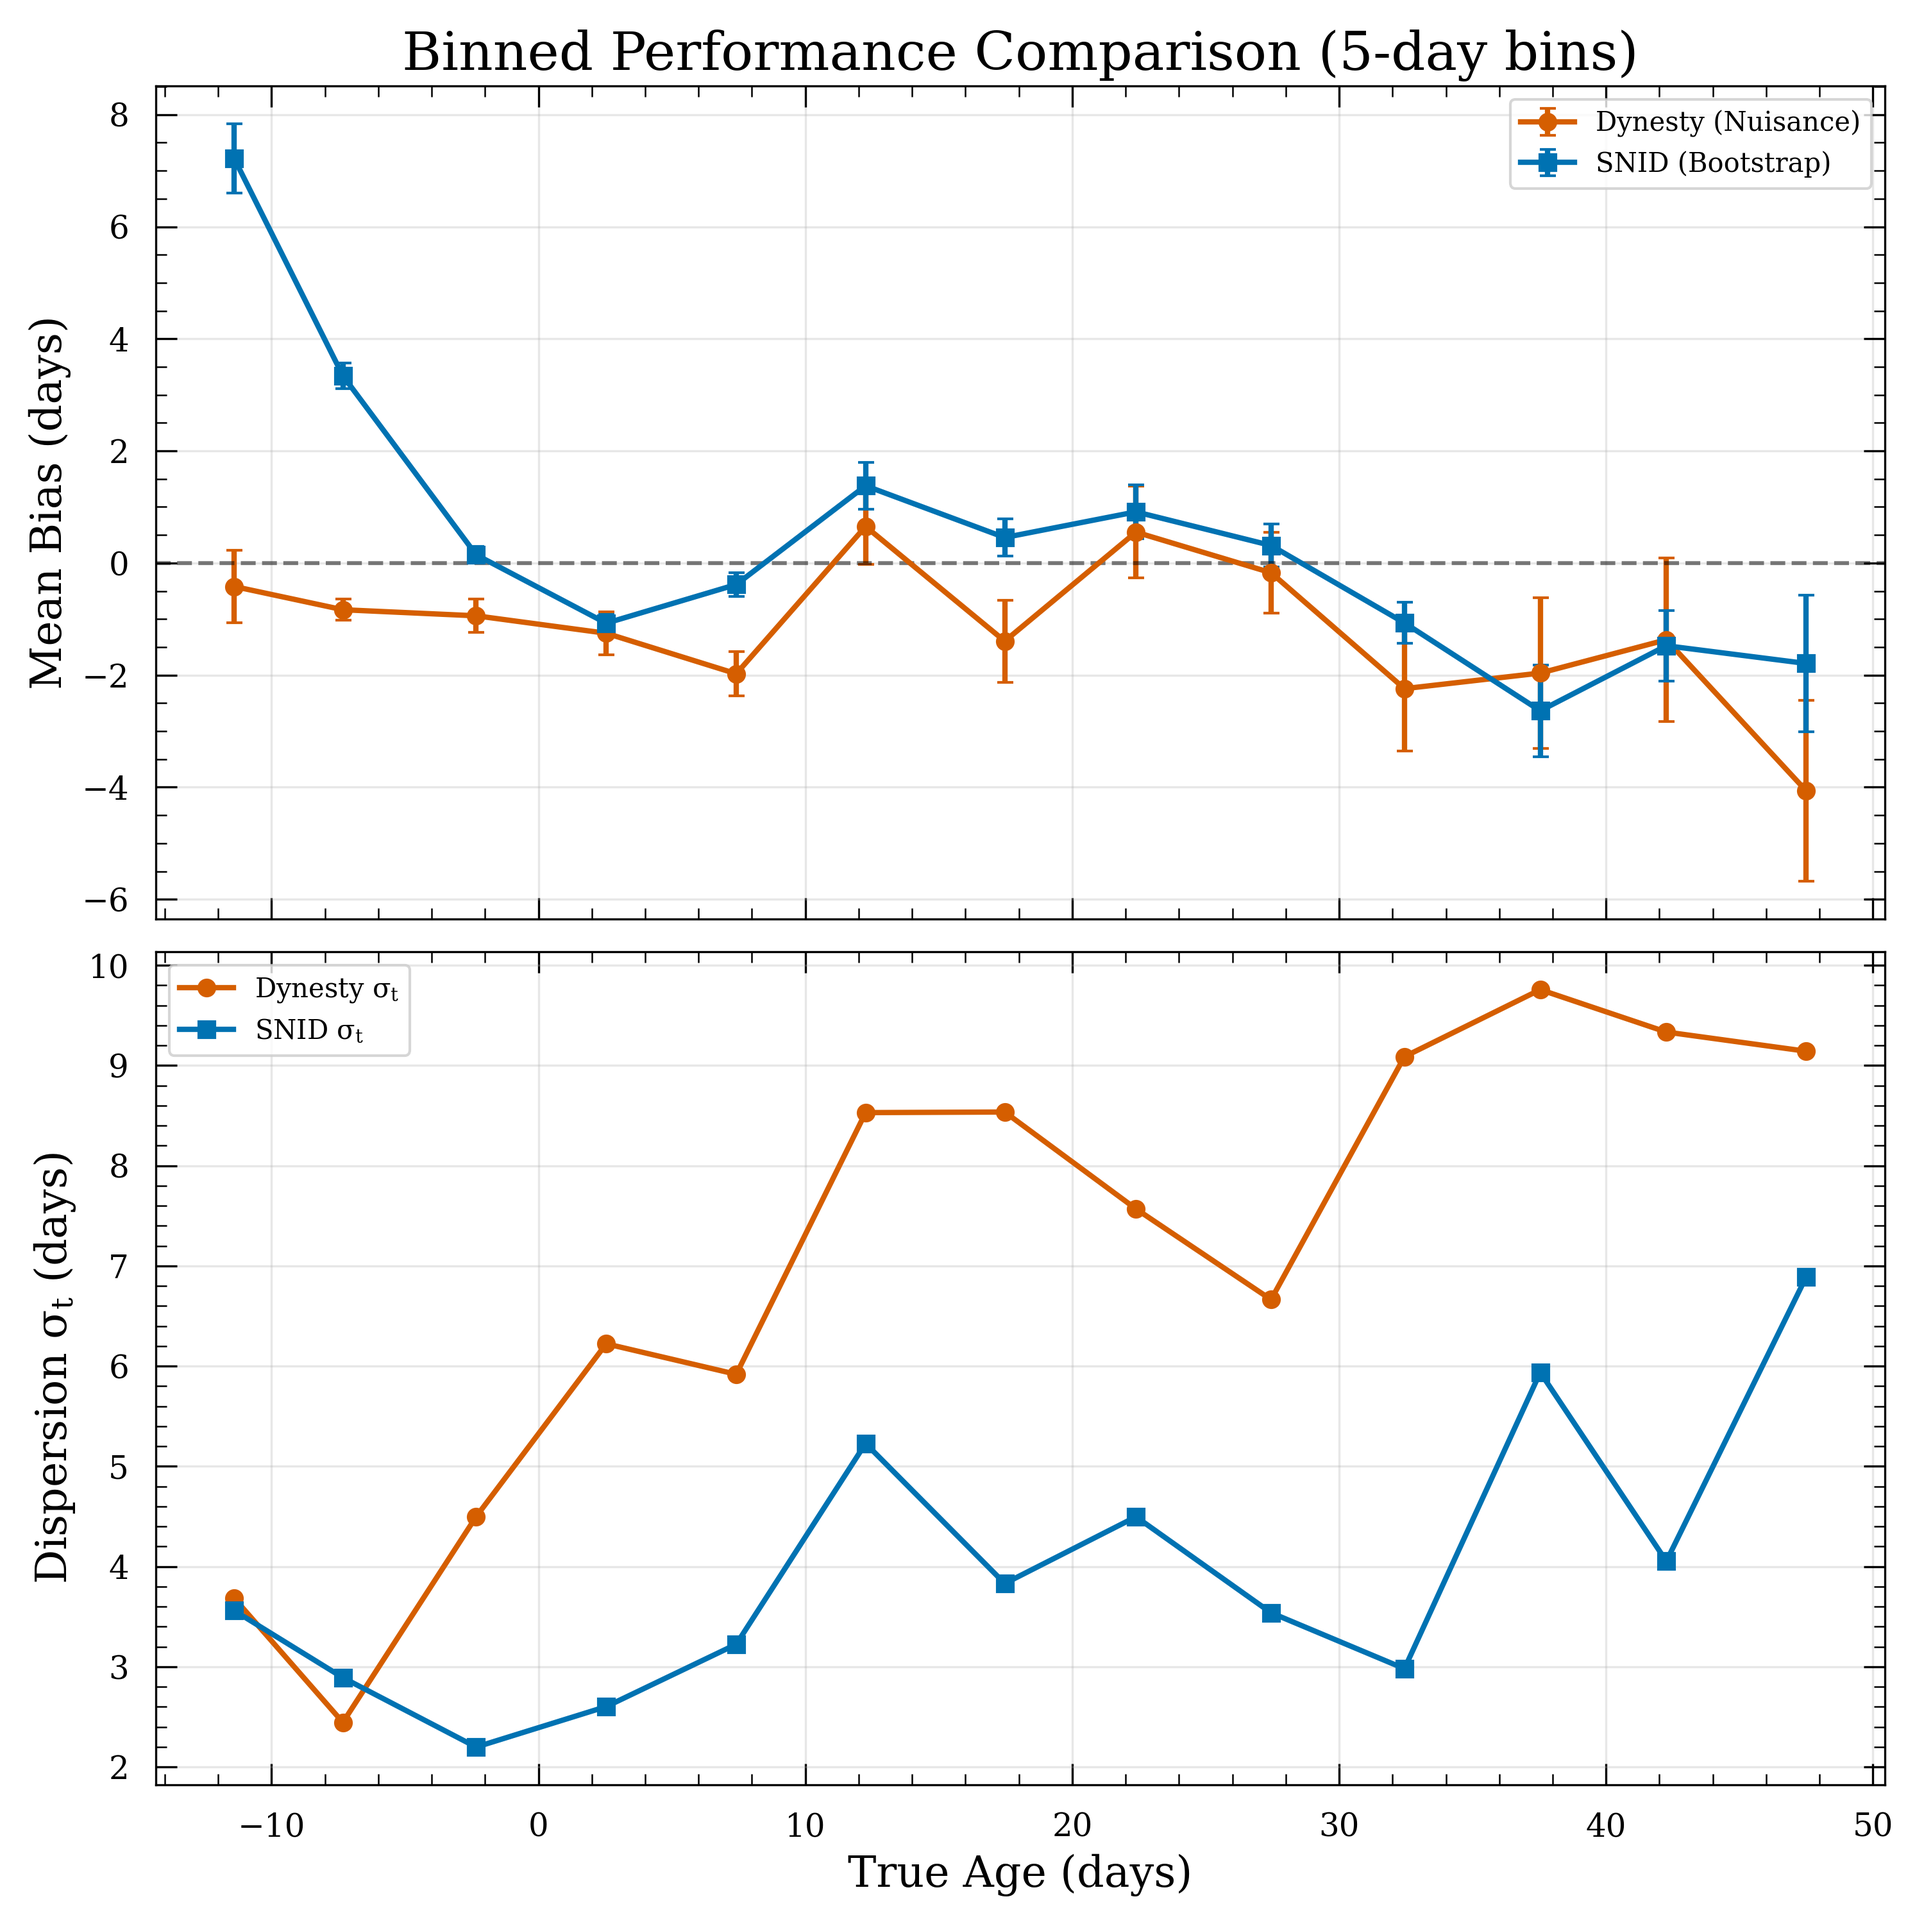
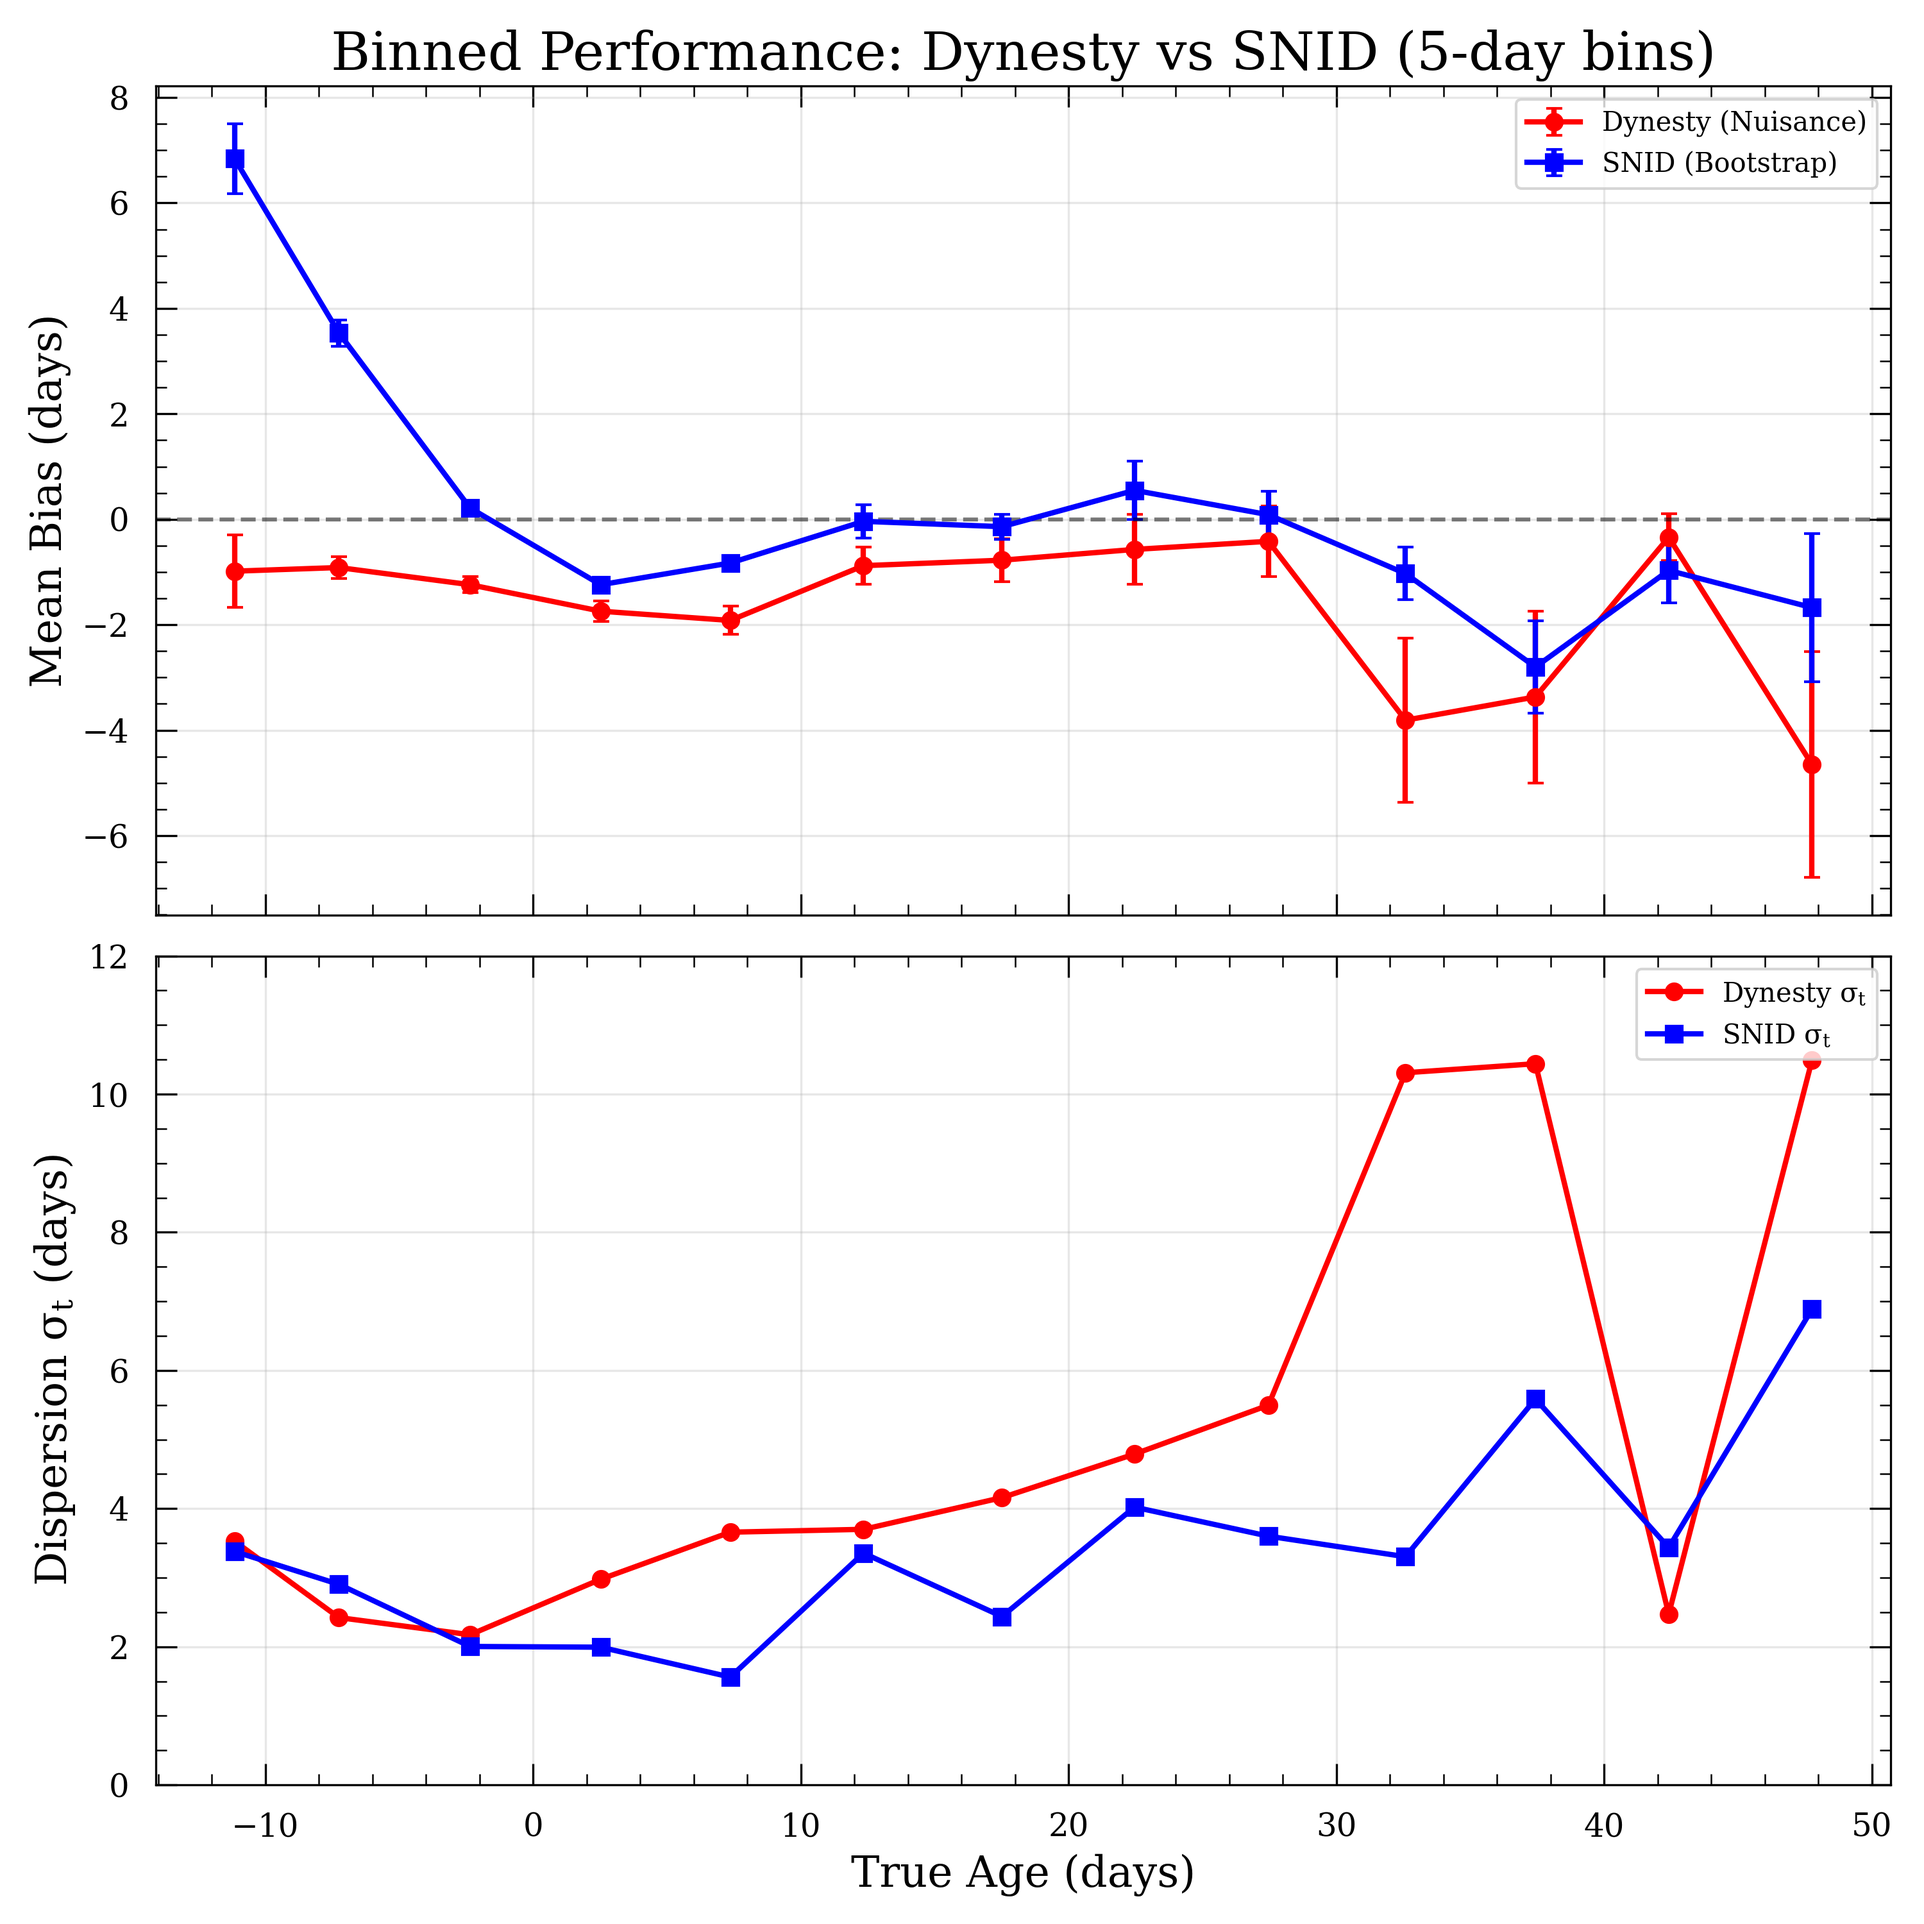
Refactor `compare_methods` scripts: enhance file handling, improve filtering, and update binned statistics for clarity and consistency

diff --git a/src/compare_methods.py b/src/compare_methods.py
@@ -4,7 +4,7 @@ import numpy as np
 import matplotlib.pyplot as plt
 
 # Configuration
-DYNESTY_FILE = 'outputs/method_comparison/cfa_dynesty_results.csv'
+DYNESTY_FILE = 'outputs/csvs/allcfa_results.csv'
 SNID_FILE = 'outputs/method_comparison/cfa_SNID_results.csv'
 OUTPUT_DIR = 'outputs/method_comparison'
 STYLE_FILE = 'assets/plotting_style.mplstyle'
@@ -18,6 +18,13 @@ def calculate_metrics(true, inferred):
 
 def run_comparison():
     # 1. Load Data
+    if not os.path.exists(DYNESTY_FILE):
+        print(f"Error: {DYNESTY_FILE} not found.")
+        return
+    if not os.path.exists(SNID_FILE):
+        print(f"Error: {SNID_FILE} not found.")
+        return
+        
     df_dyn = pd.read_csv(DYNESTY_FILE)
     df_snid = pd.read_csv(SNID_FILE)
 
@@ -26,81 +33,93 @@ def run_comparison():
     df_snid['filename_norm'] = df_snid['Filename'].str.lower()
 
     # 2. Merge Data
-    # Inner join to only compare spectra present in both sets
+    # Inner join to compare spectra present in both sets
     df_merged = pd.merge(df_dyn, df_snid, on='filename_norm', suffixes=('_dyn', '_snid'))
     
     # Clean up
     df_merged = df_merged.dropna(subset=['nuis_age', 'bootstrap_age', 'true_age'])
     
-    if df_merged.empty:
-        print("Error: No overlapping spectra found between Dynesty and SNID results.")
+    # 3. Apply Filtering (Same cuts as before)
+    # Phase range -15 to 50
+    # SNR >= 10
+    # Exclude 91bg and pec
+    mask = (
+        (df_merged['true_age'] >= -15) & (df_merged['true_age'] <= 50) &
+        (df_merged['SNR'] >= 10) &
+        (df_merged['Subtype'] != '91bg') &
+        (df_merged['Subtype'] != 'pec') &
+        (df_merged['Subtype'].notna())
+    )
+    df_filtered = df_merged[mask].copy()
+    
+    if df_filtered.empty:
+        print("Error: No spectra left after filtering.")
         return
 
-    # 3. Calculate Metrics
-    # We compare Nuisance Fit (Dynesty) vs Bootstrap Age (SNID)
-    sigma_n, rmse_n, bias_n = calculate_metrics(df_merged['true_age'], df_merged['nuis_age'])
-    sigma_s, rmse_s, bias_s = calculate_metrics(df_merged['true_age'], df_merged['bootstrap_age'])
+    # 4. Calculate Metrics
+    # Dynesty (Nuisance) vs SNID (Bootstrap)
+    sigma_n, rmse_n, bias_n = calculate_metrics(df_filtered['true_age'], df_filtered['nuis_age'])
+    sigma_s, rmse_s, bias_s = calculate_metrics(df_filtered['true_age'], df_filtered['bootstrap_age'])
 
-    print(f"--- Comparison Statistics (N={len(df_merged)}) ---")
-    print(f"Dynesty (Nuisance): Sigma_t={sigma_n:.3f}, RMSE={rmse_n:.3f}, Bias={bias_n:.3f}")
-    print(f"SNID (Bootstrap):  Sigma_t={sigma_s:.3f}, RMSE={rmse_s:.3f}, Bias={bias_s:.3f}")
+    print(f"--- Comparison Statistics (N={len(df_filtered)}) ---")
+    print(f"Dynesty (Nuisance): Sigma={sigma_n:.3f}, RMSE={rmse_n:.3f}, Bias={bias_n:.3f}")
+    print(f"SNID (Bootstrap):  Sigma={sigma_s:.3f}, RMSE={rmse_s:.3f}, Bias={bias_s:.3f}")
 
-    # Save merged results
-    merged_path = os.path.join(OUTPUT_DIR, 'merged_comparison_results.csv')
-    df_merged.to_csv(merged_path, index=False)
-    print(f"Merged results saved to {merged_path}")
+    # Save filtered results
+    filtered_path = os.path.join(OUTPUT_DIR, 'filtered_comparison_results.csv')
+    df_filtered.to_csv(filtered_path, index=False)
+    print(f"Filtered results saved to {filtered_path}")
 
-    # 4. Plotting
+    # 5. Plotting
     if os.path.exists(STYLE_FILE):
         plt.style.use(STYLE_FILE)
     else:
         plt.style.use('seaborn-v0_8-whitegrid')
 
-    fig, (ax1, ax2) = plt.subplots(2, 1, figsize=(10, 12), sharex=True, gridspec_kw={'height_ratios': [2, 1]})
+    fig, (ax1, ax2) = plt.subplots(2, 1, figsize=(10, 12), sharex=True, gridspec_kw={'height_ratios': [2.1, 1]})
 
     # Determine limits
-    min_age = min(df_merged['true_age'].min(), df_merged['nuis_age'].min(), df_merged['bootstrap_age'].min()) - 2
-    max_age = max(df_merged['true_age'].max(), df_merged['nuis_age'].max(), df_merged['bootstrap_age'].max()) + 2
+    min_age, max_age = -15, 50
 
     # Top Panel: Inferred Age vs True Age
     ax1.errorbar(
-        df_merged['true_age'], df_merged['nuis_age'], yerr=df_merged['nuis_age_err'],
-        fmt='o', color='red', alpha=0.5, label='Dynesty (Nuisance)', capsize=0
+        df_filtered['true_age'], df_filtered['nuis_age'], yerr=df_filtered['nuis_age_err'],
+        fmt='o', color='red', alpha=0.4, label='Dynesty (Nuisance)', capsize=0, markersize=3
     )
     ax1.errorbar(
-        df_merged['true_age'], df_merged['bootstrap_age'], yerr=df_merged['snid_std_dev'],
-        fmt='s', color='blue', alpha=0.4, label='SNID (Bootstrap)', capsize=0
+        df_filtered['true_age'], df_filtered['bootstrap_age'], yerr=df_filtered['snid_std_dev'],
+        fmt='s', color='blue', alpha=0.3, label='SNID (Bootstrap)', capsize=0, markersize=3
     )
     
-    ax1.plot([min_age, max_age], [min_age, max_age], color='black', linestyle='--', alpha=0.7, label='1:1 Line')
+    ax1.plot([-20, 60], [-20, 60], color='black', linestyle='--', alpha=0.7, label='1:1 Line')
     ax1.set_ylabel(r"$t_{Inferred}$ (days)")
-    ax1.set_title(f"Dynesty (Nuisance) vs SNID on CfA Spectra (N={len(df_merged)})")
+    ax1.set_title(f"Dynesty vs SNID on CfA Spectra (N={len(df_filtered)})")
 
     # Metrics Text Boxes
     metrics_text = (r"$\bf{Dynesty\ (Nuisance):}$" + "\n"
-                    f"$\sigma_t$: {sigma_n:.2f} d\n"
+                    f"$\sigma$: {sigma_n:.2f} d\n"
                     f"Bias: {bias_n:.2f} d\n\n"
                     r"$\bf{SNID:}$" + "\n"
-                    f"$\sigma_t$: {sigma_s:.2f} d\n"
+                    f"$\sigma$: {sigma_s:.2f} d\n"
                     f"Bias: {bias_s:.2f} d")
     
     ax1.text(0.05, 0.95, metrics_text, transform=ax1.transAxes,
-             va='top', ha='left', fontsize=12,
+             va='top', ha='left', fontsize=11,
              bbox=dict(boxstyle="round,pad=0.5", fc="white", ec="black", alpha=0.8))
 
     ax1.legend(loc='lower right')
     ax1.grid(True, alpha=0.3)
     ax1.set_xlim(min_age, max_age)
-    ax1.set_ylim(min_age, max_age)
+    ax1.set_ylim(-20, 55)
 
     # Bottom Panel: Residuals
     ax2.errorbar(
-        df_merged['true_age'], df_merged['nuis_age'] - df_merged['true_age'], yerr=df_merged['nuis_age_err'],
-        fmt='o', color='red', alpha=0.5, capsize=0
+        df_filtered['true_age'], df_filtered['nuis_age'] - df_filtered['true_age'], yerr=df_filtered['nuis_age_err'],
+        fmt='o', color='red', alpha=0.4, capsize=0, markersize=3
     )
     ax2.errorbar(
-        df_merged['true_age'], df_merged['bootstrap_age'] - df_merged['true_age'], yerr=df_merged['snid_std_dev'],
-        fmt='s', color='blue', alpha=0.4, capsize=0
+        df_filtered['true_age'], df_filtered['bootstrap_age'] - df_filtered['true_age'], yerr=df_filtered['snid_std_dev'],
+        fmt='s', color='blue', alpha=0.3, capsize=0, markersize=3
     )
     
     ax2.axhline(0, color='black', linestyle='--', alpha=0.7)
@@ -108,6 +127,7 @@ def run_comparison():
     ax2.set_ylabel(r"$t_{Inferred} - t_{True}$ (days)")
     ax2.grid(True, alpha=0.3)
     ax2.set_xlim(min_age, max_age)
+    ax2.set_ylim(-15, 15)
 
     plt.tight_layout()
     plot_path = os.path.join(OUTPUT_DIR, 'dynesty_vs_snid_comparison.png')

diff --git a/src/compare_methods_binned.py b/src/compare_methods_binned.py
@@ -4,10 +4,10 @@ import numpy as np
 import matplotlib.pyplot as plt
 
 # --- CONFIGURATION ---
-MERGED_FILE = 'outputs/method_comparison/merged_comparison_results.csv'
+# Use the filtered results from the main comparison script
+MERGED_FILE = 'outputs/method_comparison/filtered_comparison_results.csv'
 OUTPUT_DIR = 'outputs/method_comparison'
 STYLE_FILE = 'assets/plotting_style.mplstyle'
-
 
 # Colorblind-friendly colors (Okabe-Ito palette)
 CB_VERMILION = '#D55E00'
@@ -22,12 +22,11 @@ def run_binned_comparison():
     df = pd.read_csv(MERGED_FILE)
     
     # 2. Define Bins
-    # We cover -20 to 50 days. 5-day bins are usually a good balance.
-    bin_edges = np.arange(-20, 51, 5)
+    # Covering -15 to 50 days (to match current cuts)
+    bin_edges = np.arange(-15, 51, 5)
     df['age_bin'] = pd.cut(df['true_age'], bins=bin_edges)
     
     # 3. Calculate Binned Statistics
-    # For each bin, we want mean bias and dispersion (std dev)
     df['bias_dyn'] = df['nuis_age'] - df['true_age']
     df['bias_snid'] = df['bootstrap_age'] - df['true_age']
     
@@ -41,8 +40,8 @@ def run_binned_comparison():
     bin_stats.columns = ['age_bin', 'bias_dyn_mean', 'bias_dyn_std', 'count_dyn', 
                          'bias_snid_mean', 'bias_snid_std', 'count_snid', 'bin_center_mean']
     
-    # Filter out bins with too few points if necessary
-    bin_stats = bin_stats[bin_stats['count_dyn'] > 2]
+    # Filter out bins with too few points
+    bin_stats = bin_stats[bin_stats['count_dyn'] > 2].copy()
 
     # 4. Plotting
     if os.path.exists(STYLE_FILE):
@@ -55,35 +54,36 @@ def run_binned_comparison():
     # Subplot 1: Mean Bias
     ax1.errorbar(
         bin_stats['bin_center_mean'], bin_stats['bias_dyn_mean'], 
-        yerr=bin_stats['bias_dyn_std'] / np.sqrt(bin_stats['count_dyn']), # Std Error of Mean
-        fmt='o-', color=CB_VERMILION, label='Dynesty (Nuisance)', capsize=3, lw=2
+        yerr=bin_stats['bias_dyn_std'] / np.sqrt(bin_stats['count_dyn']), # SEM
+        fmt='o-', color='red', label='Dynesty (Nuisance)', capsize=3, lw=2, markersize=6
     )
     ax1.errorbar(
         bin_stats['bin_center_mean'], bin_stats['bias_snid_mean'], 
         yerr=bin_stats['bias_snid_std'] / np.sqrt(bin_stats['count_snid']), 
-        fmt='s-', color=CB_BLUE, label='SNID (Bootstrap)', capsize=3, lw=2
+        fmt='s-', color='blue', label='SNID (Bootstrap)', capsize=3, lw=2, markersize=6
     )
     
     ax1.axhline(0, color='black', linestyle='--', alpha=0.5)
     ax1.set_ylabel('Mean Bias (days)')
-    ax1.set_title('Binned Performance Comparison (5-day bins)')
+    ax1.set_title('Binned Performance: Dynesty vs SNID (5-day bins)')
     ax1.legend()
     ax1.grid(True, alpha=0.3)
 
     # Subplot 2: Dispersion (Sigma_t)
     ax2.plot(
         bin_stats['bin_center_mean'], bin_stats['bias_dyn_std'], 
-        'o-', color=CB_VERMILION, label='Dynesty $\sigma_t$', lw=2
+        'o-', color='red', label='Dynesty $\sigma_t$', lw=2, markersize=6
     )
     ax2.plot(
         bin_stats['bin_center_mean'], bin_stats['bias_snid_std'], 
-        's-', color=CB_BLUE, label='SNID $\sigma_t$', lw=2
+        's-', color='blue', label='SNID $\sigma_t$', lw=2, markersize=6
     )
     
     ax2.set_xlabel('True Age (days)')
     ax2.set_ylabel('Dispersion $\sigma_t$ (days)')
     ax2.grid(True, alpha=0.3)
     ax2.legend()
+    ax2.set_ylim(0, 12) # Reasonable range for dispersion
 
     plt.tight_layout()
     plot_path = os.path.join(OUTPUT_DIR, 'binned_method_comparison.png')
